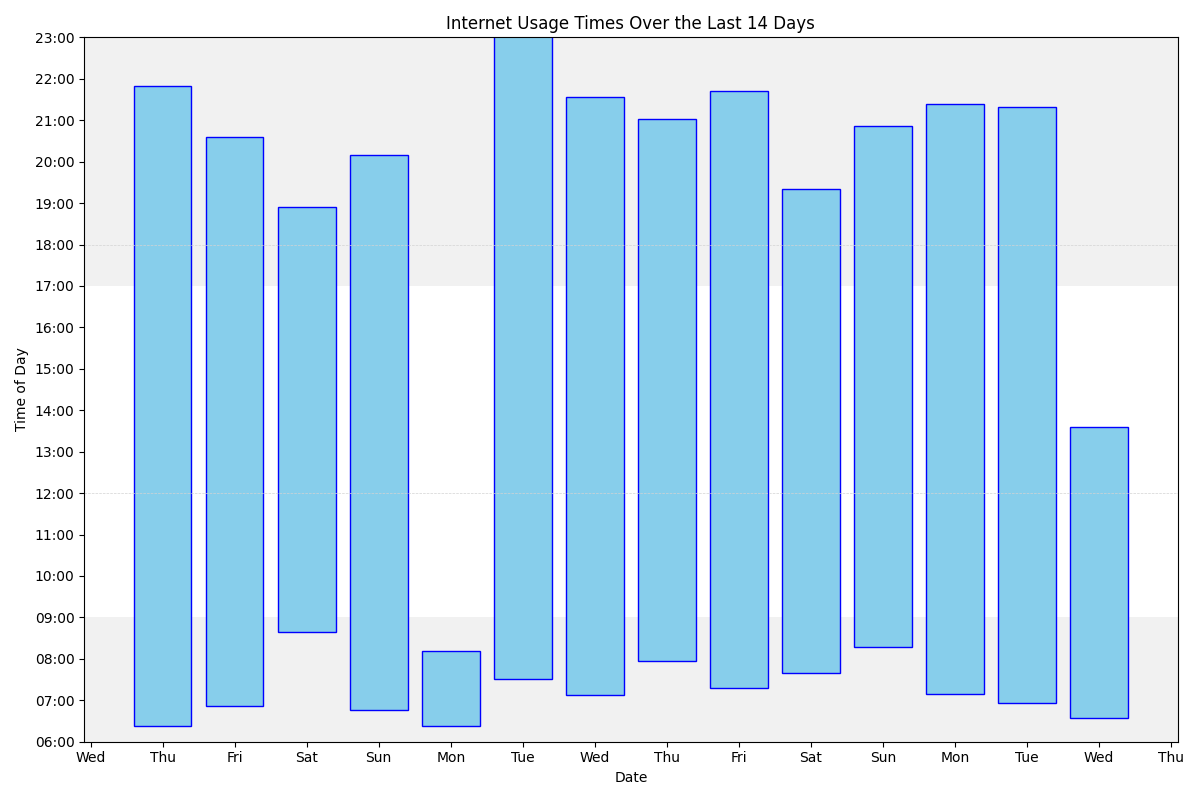
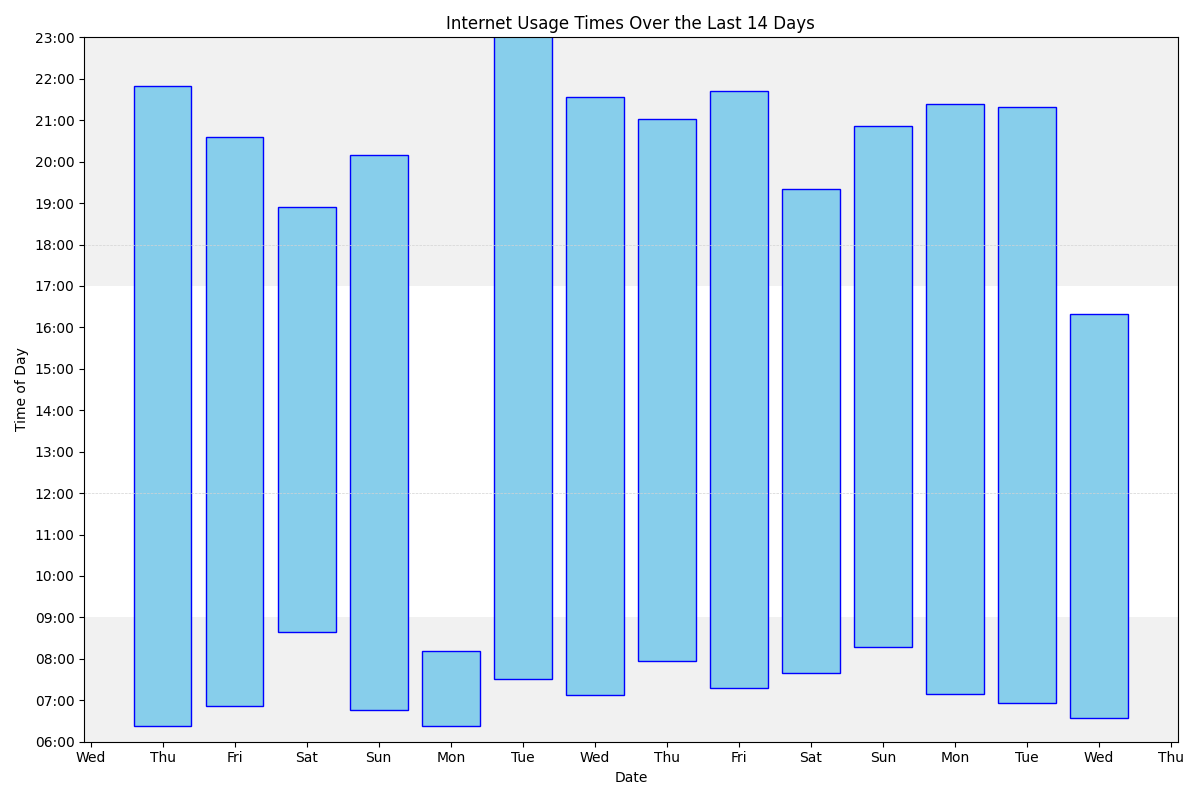
Update

Changed region(s): [[0.8633, 0.375, 0.9558, 0.5625]]

diff --git a/index.md b/index.md
@@ -72,13 +72,13 @@ With number of accesses/minutes in parentheses
 <li>bsky.app (1091)</li>
 <li>outlook.office365.com (1061)</li>
 <li>mail.google.com (1020)</li>
-<li>outlook.office.com (977)</li>
-<li>docs.google.com (913)</li>
+<li>outlook.office.com (980)</li>
+<li>docs.google.com (916)</li>
 <li>www.facebook.com (626)</li>
-<li>www.reddit.com (330)</li>
+<li>www.reddit.com (337)</li>
 <li>www.amazon.co.uk (325)</li>
+<li>chatgpt.com (313)</li>
 <li>rhul-my.sharepoint.com (312)</li>
-<li>chatgpt.com (312)</li>
 <li>www.linkedin.com (274)</li>
 <li>moodle.royalholloway.ac.uk (268)</li>
 <li>github.com (266)</li>
@@ -93,8 +93,8 @@ With number of accesses/minutes in parentheses
 <li>qbo.intuit.com (110)</li>
 <li>www.theguardian.com (98)</li>
 <li>rhul.sharepoint.com (96)</li>
+<li>chat.openai.com (93)</li>
 <li>www.tesco.com (93)</li>
-<li>chat.openai.com (92)</li>
 <li>discord.com (91)</li>
 <li>web.whatsapp.com (91)</li>
 <li>gmail.com (90)</li>
@@ -105,6 +105,28 @@ With number of accesses/minutes in parentheses
 <ul></ul>
 
 <H3>Wednesday, 29/01/25</H3>
+
+<br>
+
+<ul><li> 16:24 chatgpt.com</li>
+<li> 16:24 chat.openai.com</li>
+<li> 16:18 outlook.office.com</li>
+<li> 16:18 duckduckgo.com</li>
+<li> 16:16 www.reddit.com</li>
+<li class='same'> 16:15 www.reddit.com</li>
+<li> 16:15 duckduckgo.com</li>
+<li> 16:13 www.reddit.com</li>
+<li class='same'> 16:11 www.reddit.com</li>
+<li class='same'> 16:10 www.reddit.com</li>
+<li class='same'> 16:09 www.reddit.com</li>
+<li class='same'> 16:07 www.reddit.com</li>
+<li> 16:07 duckduckgo.com</li>
+<li> 16:06 docs.google.com</li>
+<li class='same'> 16:05 docs.google.com</li>
+<li class='same'> 16:01 docs.google.com</li>
+<li> 16:01 outlook.office.com</li>
+<li class='same'> 16:00 outlook.office.com</li>
+</ul>
 
 <br>
 
